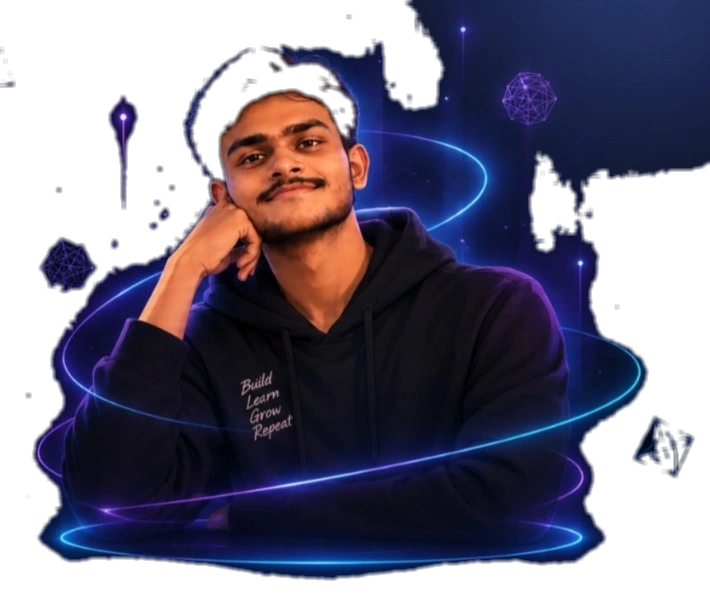
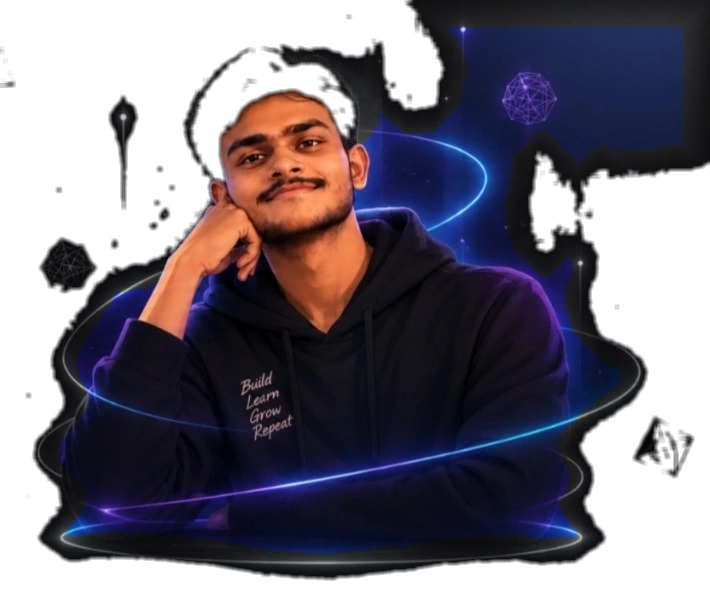
Desaturate baked-in rim glow on the body silhouette, size portrait up ~22%
Traced the persistent blue/purple outline around the hair/shoulders/arms
to the source photo's own pixels (verified by compositing the raw cutout
on a neutral gray background with zero CSS applied - the rim glow was
already there, not added by any of my CSS layers).

Ran a targeted, edge-distance-limited desaturation pass: only pixels
within ~26px of the alpha silhouette boundary that are also clearly
blue/purple and saturated get pulled toward neutral gray and slightly
darkened (strongest right at the edge, tapering to nothing at the band
limit). Face, skin, hair color, hoodie fabric, and the orbit ring
strokes running through the interior of the frame (away from the edge)
are untouched - only the rim-light halo hugging the contour is affected.

Also sized the portrait frame up ~22% (540px -> 660px desktop,
400px -> 480px mobile) per request.

diff --git a/src/components/Hero.css b/src/components/Hero.css
@@ -79,7 +79,7 @@
 .hero-frame {
   position: relative;
   z-index: 1;
-  width: min(98%, 540px);
+  width: min(100%, 660px);
   perspective: 900px;
 }
 
@@ -218,7 +218,7 @@
   }
 
   .hero-frame {
-    width: min(85%, 400px);
+    width: min(90%, 480px);
   }
 }
 
